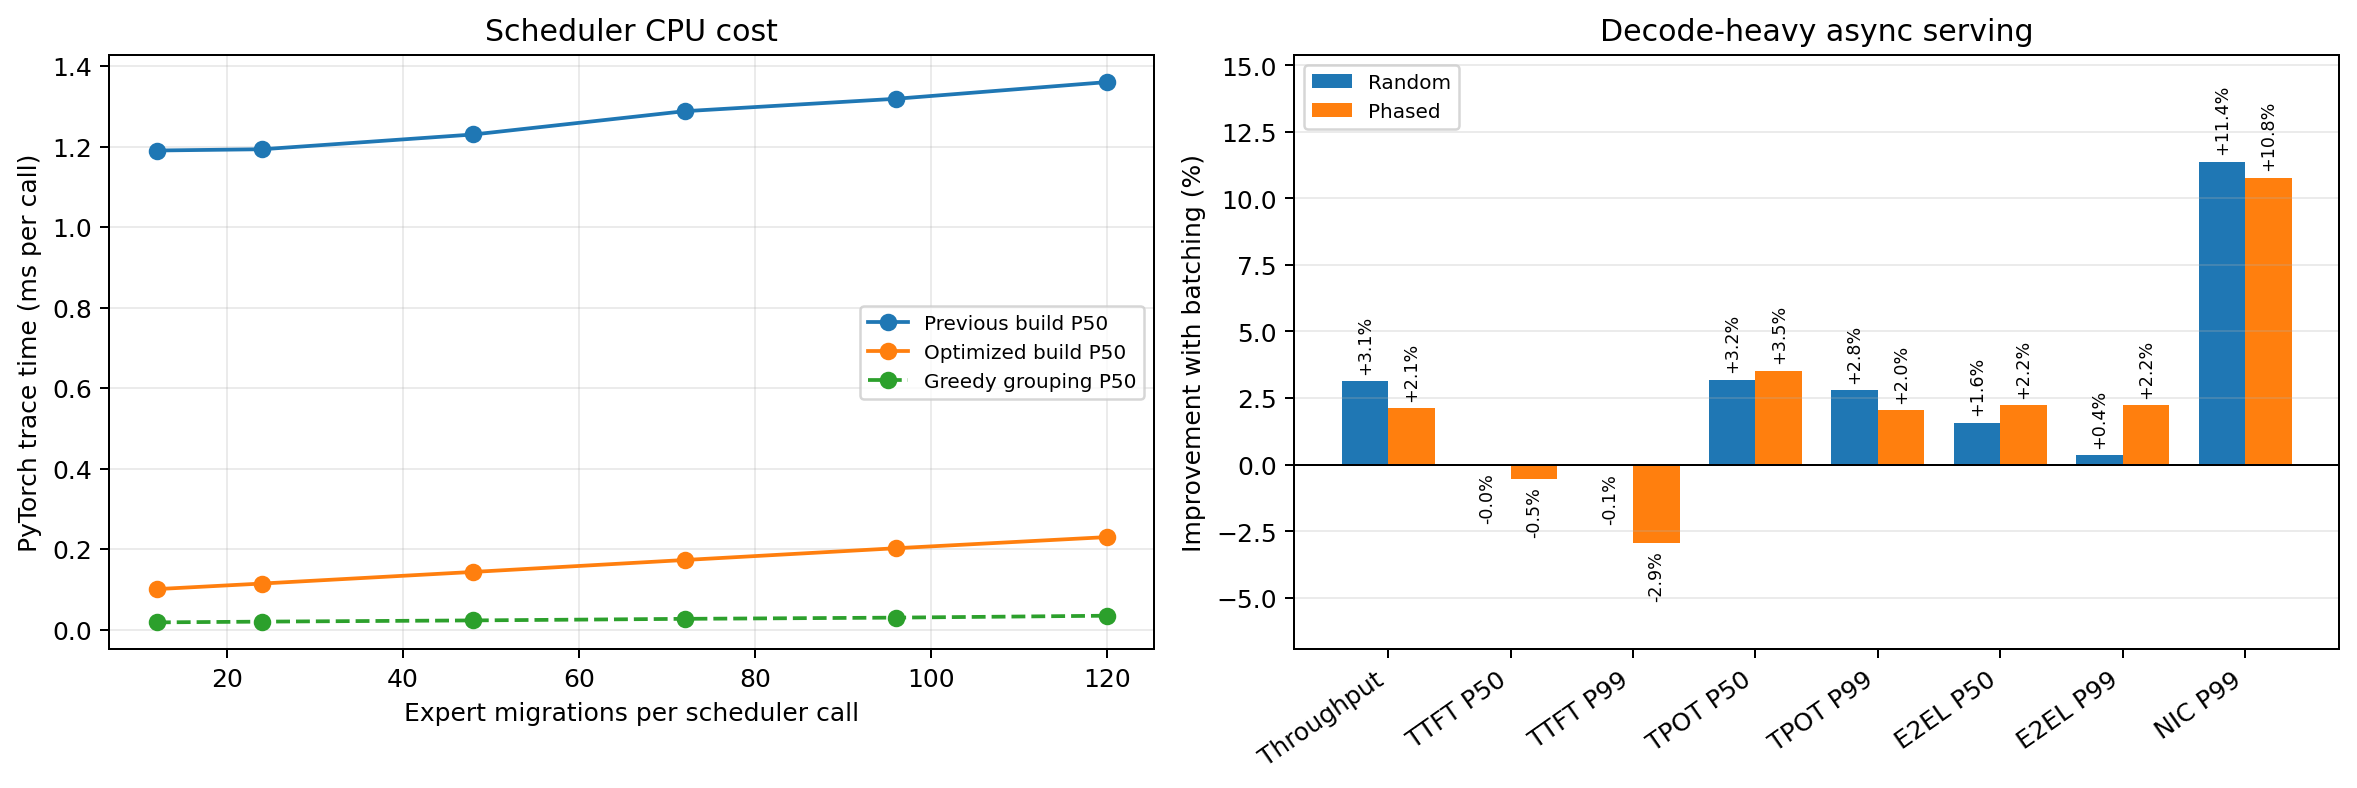
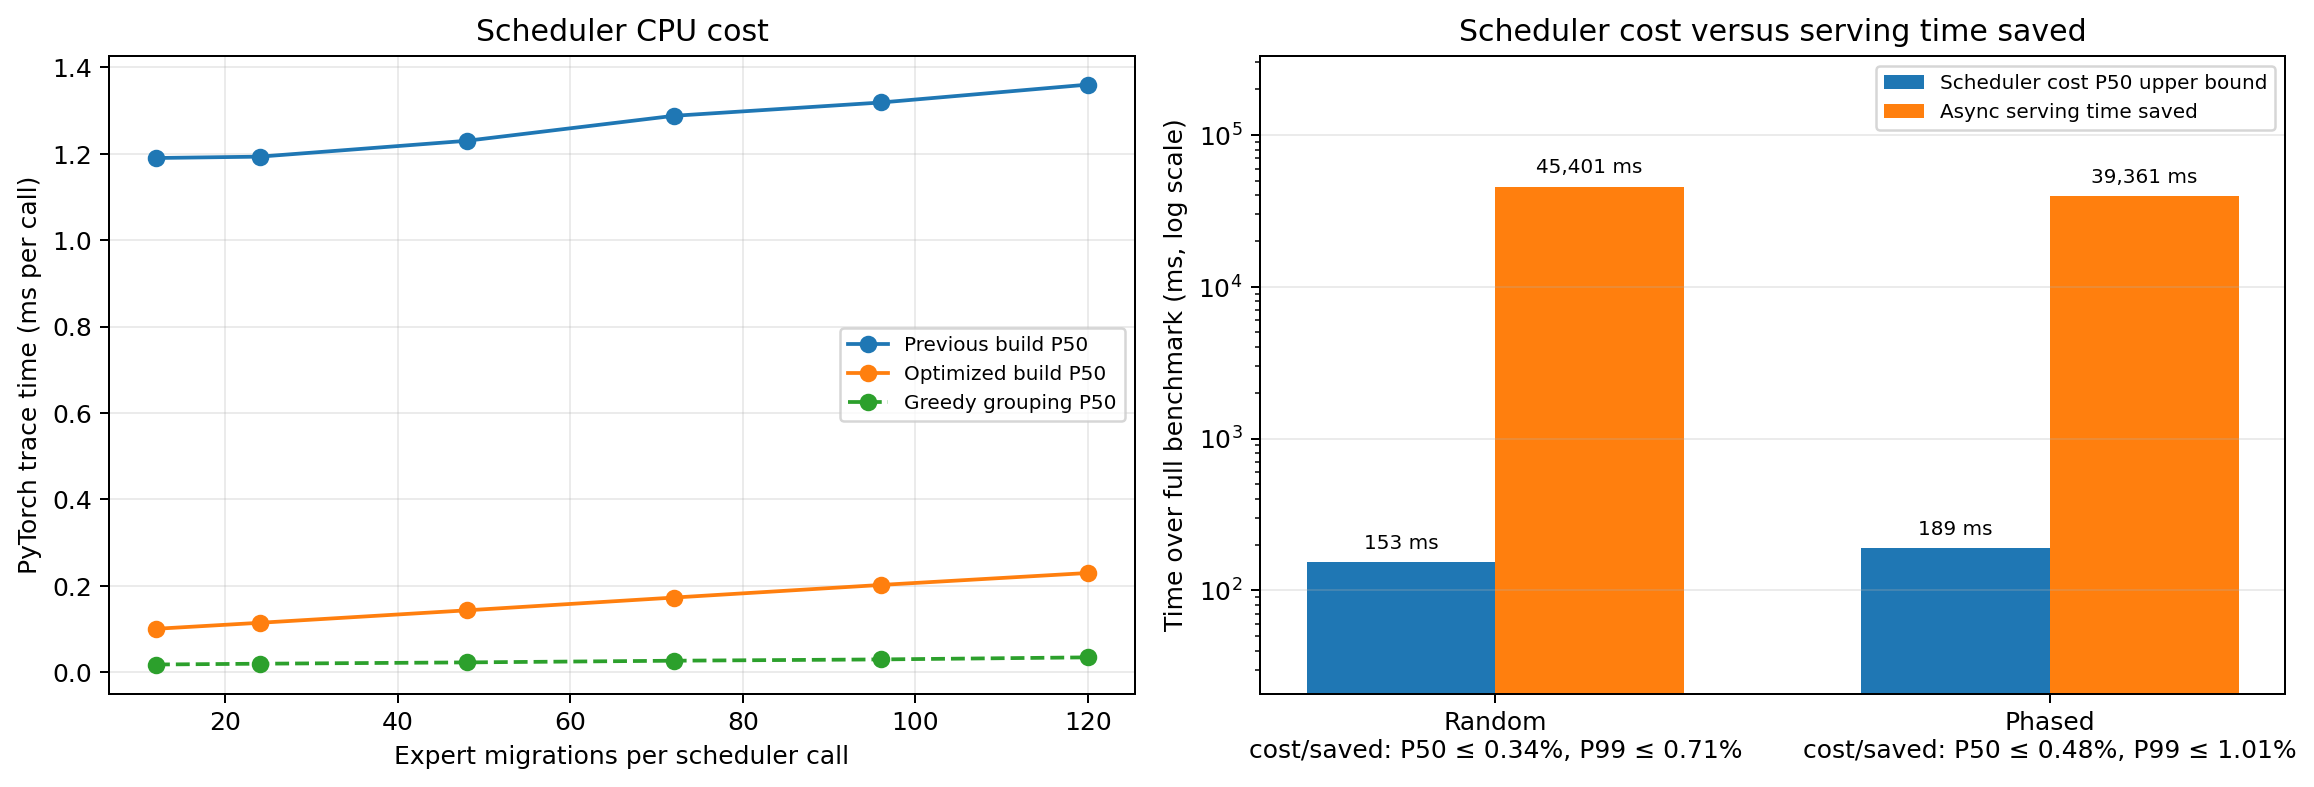
Add trace-based EPLB cost benefit analysis

diff --git a/benchmarks/eplb_rebalance/analyze_optimized_profile.py b/benchmarks/eplb_rebalance/analyze_optimized_profile.py
@@ -10,6 +10,7 @@ from typing import Any
 
 import matplotlib.pyplot as plt
 import numpy as np
+import regex as re
 
 
 def parse_args() -> argparse.Namespace:
@@ -17,6 +18,7 @@ def parse_args() -> argparse.Namespace:
     parser.add_argument("trace_summary", type=Path)
     parser.add_argument("serving_dir", type=Path)
     parser.add_argument("output_dir", type=Path)
+    parser.add_argument("--migration-log-dir", type=Path, required=True)
     return parser.parse_args()
 
 
@@ -74,15 +76,47 @@ def write_csv(rows: list[dict[str, Any]], path: Path) -> None:
         writer.writerows(rows)
 
 
-def improvement(off: dict[str, Any], on: dict[str, Any], metric: str) -> float:
-    if metric == "output_tok_s":
-        return (on[metric] - off[metric]) / off[metric] * 100
-    return (off[metric] - on[metric]) / off[metric] * 100
+def calculate_cost_bounds(
+    trace: dict[int, dict[str, float]],
+    serving: list[dict[str, Any]],
+    migration_log_dir: Path,
+) -> list[dict[str, Any]]:
+    trace_migrations = max(trace)
+    trace_row = trace[trace_migrations]
+    per_call_p50 = trace_row["after_build_p50_ms"] + trace_row["after_greedy_p50_ms"]
+    per_call_p99 = trace_row["after_build_p99_ms"] + trace_row["after_greedy_p99_ms"]
+    rows: list[dict[str, Any]] = []
+    for workload in ("random", "phased"):
+        log = (
+            migration_log_dir / workload / "01_async_batching_on" / "server.log"
+        ).read_text(errors="replace")
+        migrations = [
+            int(value)
+            for value in re.findall(r"EPLB migration stats:.*?transfers=(\d+)", log)
+        ]
+        pair = {row["batching"]: row for row in serving if row["workload"] == workload}
+        saved_ms = (pair["off"]["duration_s"] - pair["on"]["duration_s"]) * 1000
+        cost_p50 = len(migrations) * per_call_p50
+        cost_p99 = len(migrations) * per_call_p99
+        rows.append(
+            {
+                "workload": workload,
+                "scheduler_calls": len(migrations),
+                "maximum_migrations_per_call": max(migrations),
+                "trace_bound_migrations_per_call": trace_migrations,
+                "scheduler_cost_p50_bound_ms": cost_p50,
+                "scheduler_cost_p99_bound_ms": cost_p99,
+                "serving_time_saved_ms": saved_ms,
+                "cost_saved_p50_bound_pct": cost_p50 / saved_ms * 100,
+                "cost_saved_p99_bound_pct": cost_p99 / saved_ms * 100,
+            }
+        )
+    return rows
 
 
 def plot(
     trace: dict[int, dict[str, float]],
-    serving: list[dict[str, Any]],
+    cost_bounds: list[dict[str, Any]],
     path: Path,
 ) -> None:
     figure, axes = plt.subplots(1, 2, figsize=(13.2, 4.5))
@@ -106,55 +140,48 @@ def plot(
     scheduler.grid(True, alpha=0.25)
     scheduler.legend(fontsize=8)
 
-    by_workload = {
-        workload: {
-            row["batching"]: row for row in serving if row["workload"] == workload
-        }
-        for workload in ("random", "phased")
-    }
-    metrics = (
-        ("output_tok_s", "Throughput"),
-        ("ttft_p50_ms", "TTFT P50"),
-        ("ttft_p99_ms", "TTFT P99"),
-        ("tpot_p50_ms", "TPOT P50"),
-        ("tpot_p99_ms", "TPOT P99"),
-        ("e2el_p50_ms", "E2EL P50"),
-        ("e2el_p99_ms", "E2EL P99"),
-        ("nic_p99_mb_s", "NIC P99"),
-    )
-    positions = np.arange(len(metrics))
-    width = 0.38
+    positions = np.arange(len(cost_bounds))
+    width = 0.34
     serving_axis = axes[1]
-    for offset, workload in ((-width / 2, "random"), (width / 2, "phased")):
-        pair = by_workload[workload]
-        values = [improvement(pair["off"], pair["on"], metric) for metric, _ in metrics]
-        bars = serving_axis.bar(
-            positions + offset,
-            values,
-            width,
-            label=workload.title(),
-        )
-        for bar, value in zip(bars, values):
-            serving_axis.annotate(
-                f"{value:+.1f}%",
-                (bar.get_x() + bar.get_width() / 2, value),
-                xytext=(0, 3 if value >= 0 else -3),
-                textcoords="offset points",
-                ha="center",
-                va="bottom" if value >= 0 else "top",
-                fontsize=7,
-                rotation=90,
-            )
-    serving_axis.axhline(0, color="black", linewidth=0.8)
+    cost_bars = serving_axis.bar(
+        positions - width / 2,
+        [row["scheduler_cost_p50_bound_ms"] for row in cost_bounds],
+        width,
+        label="Scheduler cost P50 upper bound",
+    )
+    saving_bars = serving_axis.bar(
+        positions + width / 2,
+        [row["serving_time_saved_ms"] for row in cost_bounds],
+        width,
+        label="Async serving time saved",
+    )
+    serving_axis.set_yscale("log")
     serving_axis.set_xticks(positions)
     serving_axis.set_xticklabels(
-        [label for _, label in metrics], rotation=35, ha="right"
+        [
+            f"{row['workload'].title()}\n"
+            f"cost/saved: P50 ≤ {row['cost_saved_p50_bound_pct']:.2f}%, "
+            f"P99 ≤ {row['cost_saved_p99_bound_pct']:.2f}%"
+            for row in cost_bounds
+        ]
     )
-    serving_axis.set_ylabel("Improvement with batching (%)")
-    serving_axis.set_title("Decode-heavy async serving")
+    serving_axis.set_ylabel("Time over full benchmark (ms, log scale)")
+    serving_axis.set_title("Scheduler cost versus serving time saved")
     serving_axis.grid(True, axis="y", alpha=0.25)
     serving_axis.legend(fontsize=8)
-    serving_axis.margins(y=0.28)
+    for bars in (cost_bars, saving_bars):
+        for bar in bars:
+            height = bar.get_height()
+            serving_axis.annotate(
+                f"{height:,.0f} ms",
+                (bar.get_x() + bar.get_width() / 2, height),
+                xytext=(0, 4),
+                textcoords="offset points",
+                ha="center",
+                va="bottom",
+                fontsize=8,
+            )
+    serving_axis.margins(y=0.35)
 
     figure.tight_layout()
     figure.savefig(path, dpi=180, bbox_inches="tight")
@@ -165,8 +192,14 @@ def main() -> None:
     args.output_dir.mkdir(parents=True, exist_ok=True)
     trace = load_trace(args.trace_summary)
     serving = load_serving(args.serving_dir)
+    cost_bounds = calculate_cost_bounds(trace, serving, args.migration_log_dir)
     write_csv(serving, args.output_dir / "serving_summary.csv")
-    plot(trace, serving, args.output_dir / "optimized_scheduler_and_serving.png")
+    write_csv(cost_bounds, args.output_dir / "cost_benefit.csv")
+    plot(
+        trace,
+        cost_bounds,
+        args.output_dir / "optimized_scheduler_and_serving.png",
+    )
 
 
 if __name__ == "__main__":

diff --git a/benchmarks/eplb_rebalance/README.md b/benchmarks/eplb_rebalance/README.md
@@ -258,14 +258,14 @@ All values come from PyTorch profiler events, not logging timers.
   --summary summary.csv
 ```
 
-| Migrations/call | Previous build P50/P99 (ms/call) | Optimized build P50/P99 (ms/call) | Greedy P50/P99 (ms/call) | Build speedup |
-| ---: | ---: | ---: | ---: | ---: |
-| 12 | 1.190 / 1.318 | 0.100 / 0.130 | 0.018 / 0.033 | 11.85x |
-| 24 | 1.193 / 1.321 | 0.114 / 0.137 | 0.020 / 0.035 | 10.44x |
-| 48 | 1.230 / 1.368 | 0.143 / 0.170 | 0.023 / 0.039 | 8.59x |
-| 72 | 1.288 / 1.412 | 0.173 / 0.212 | 0.027 / 0.043 | 7.46x |
-| 96 | 1.319 / 2.057 | 0.202 / 0.474 | 0.030 / 0.060 | 6.53x |
-| 120 | 1.360 / 2.761 | 0.230 / 0.489 | 0.034 / 0.068 | 5.92x |
+| Migrations/call | Previous build P50/P99 (ms/call) | Optimized build P50/P99 (ms/call) | Greedy P50/P99 (ms/call) |
+| ---: | ---: | ---: | ---: |
+| 12 | 1.190 / 1.318 | 0.100 / 0.130 | 0.018 / 0.033 |
+| 24 | 1.193 / 1.321 | 0.114 / 0.137 | 0.020 / 0.035 |
+| 48 | 1.230 / 1.368 | 0.143 / 0.170 | 0.023 / 0.039 |
+| 72 | 1.288 / 1.412 | 0.173 / 0.212 | 0.027 / 0.043 |
+| 96 | 1.319 / 2.057 | 0.202 / 0.474 | 0.030 / 0.060 |
+| 120 | 1.360 / 2.761 | 0.230 / 0.489 | 0.034 / 0.068 |
 
 The compressed Chrome trace and its CSV summary are in
 `results/scheduler_trace_optimized_20260904/`.
@@ -335,6 +335,23 @@ TPOT P99 by 2.79%/2.04%, and E2EL P50 by 1.58%/2.23% for random/phased.
 NIC P99 fell by 11.37%/10.77%. Random TTFT was unchanged; phased TTFT P50/P99
 regressed by 0.53%/2.93%.
 
+The trace-based cost/saved comparison uses the 120-migration trace point as a
+conservative per-call bound: the observed random/phased maxima were only
+117/116 migrations. For percentile `q`:
+
+$$
+C_q^{\mathrm{upper}} = N_{\mathrm{calls}}
+\left(t_{\mathrm{build},q}^{120} + t_{\mathrm{greedy},q}^{120}\right),
+\qquad
+R_q^{\mathrm{upper}} = \frac{C_q^{\mathrm{upper}}}
+{(D_{\mathrm{off}}-D_{\mathrm{on}})\times 1000}\times 100\%.
+$$
+
+| Workload | Scheduler calls | Max migrations/call | Scheduler cost P50/P99 upper bound (ms) | Serving time saved (ms) | Cost/saved P50/P99 upper bound |
+| --- | ---: | ---: | ---: | ---: | ---: |
+| Random | 581 | 117 | 153.32 / 323.87 | 45,400.93 | 0.34% / 0.71% |
+| Phased English | 715 | 116 | 188.68 / 398.56 | 39,361.24 | 0.48% / 1.01% |
+
 ![Optimized scheduler and serving results](results/eplb_decode_heavy_optimized_20260904/optimized_scheduler_and_serving.png)
 
 All unmodified bench JSON, warmup JSON, server logs, bench logs, configs, and NIC
@@ -345,5 +362,7 @@ summary and plot with:
 .venv/bin/python benchmarks/eplb_rebalance/analyze_optimized_profile.py \
   benchmarks/eplb_rebalance/results/scheduler_trace_optimized_20260904/summary.csv \
   benchmarks/eplb_rebalance/results/eplb_decode_heavy_optimized_20260904 \
-  benchmarks/eplb_rebalance/results/eplb_decode_heavy_optimized_20260904
+  benchmarks/eplb_rebalance/results/eplb_decode_heavy_optimized_20260904 \
+  --migration-log-dir \
+  benchmarks/eplb_rebalance/results/decode_heavy_profile_20260904
 ```
